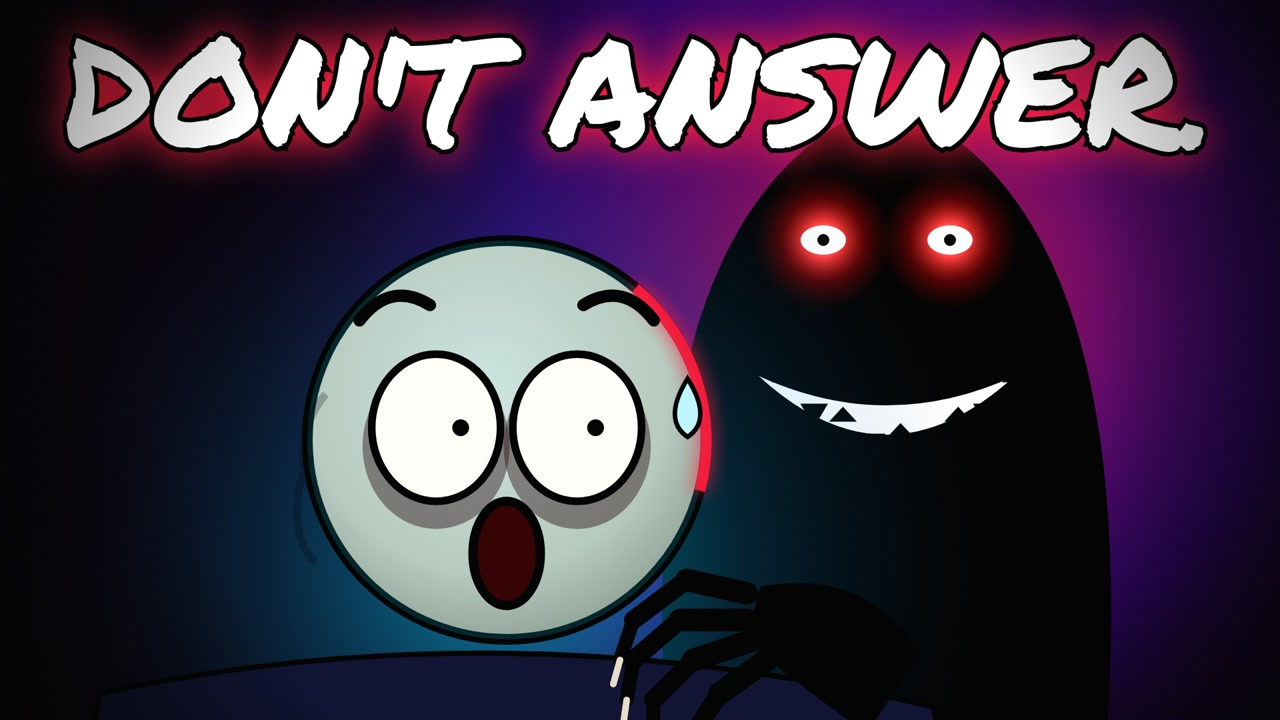
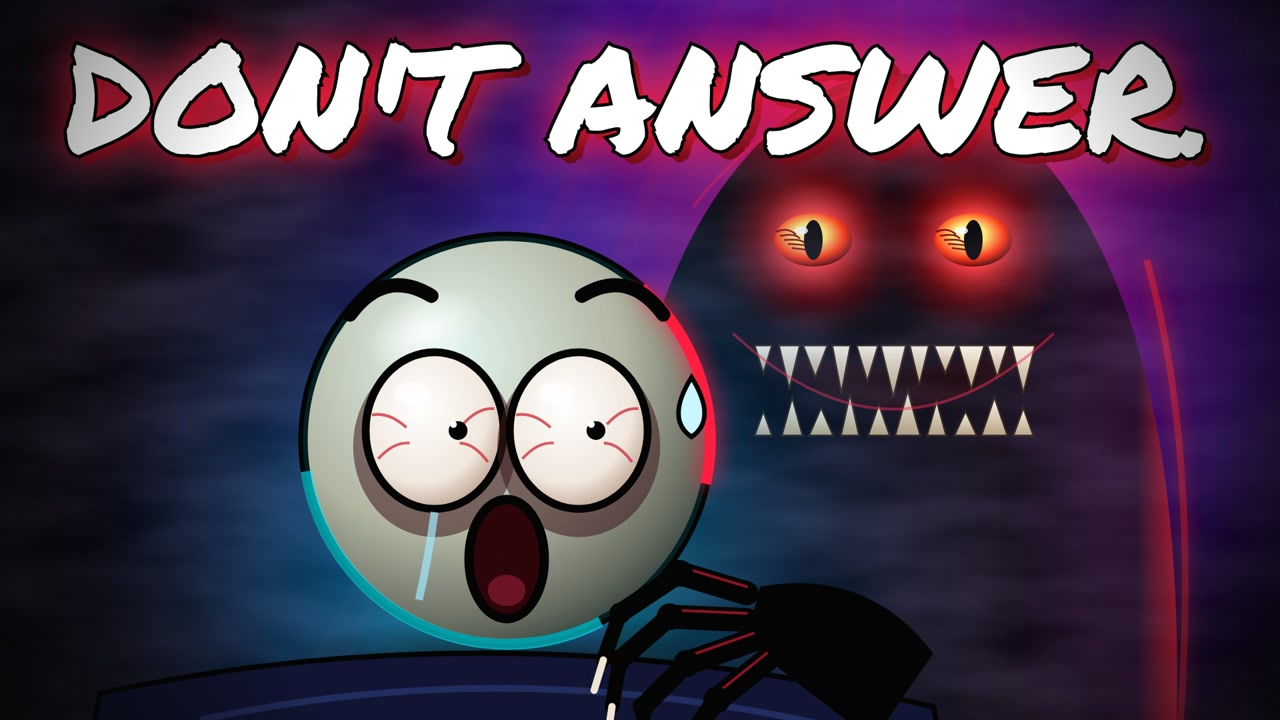
3 AM Stories: 3D-shaded, scarier thumbnails (sphere-lit head, veined eyes, rim-lit creature with teeth, fog, extruded title)
Claude-Session: https://claude.ai/code/session_019ai2m2MxcJnxMHWqzPuaSF

diff --git a/channels/3am-stories/engine/scenes.js b/channels/3am-stories/engine/scenes.js
@@ -237,45 +237,85 @@ S.text = (t, d, p) => {
     ${p.sub ? `<text x="960" y="${1120 + (lines.length - 1) * 95}" text-anchor="middle" font-family="Marker" font-size="${fit(p.sub, 60)}" fill="#c9c2bb" opacity="${a}">${p.sub}</text>` : ''}
     ${p.eyes ? watcher(960, 1500, 0.8, ease((t - 0.8) / 1.2), { noeyes: false }) : ''}`;
 };
-// Thumbnail: saturated colour, your terrified face lit cyan from below, the creature looming right behind you
-// (glowing eyes, too-wide grin, long fingers curling round your head), one or two huge words on top.
+// Thumbnail, "3D" look: sphere-shaded head with specular highlight and cast shadow, glossy veined eyes,
+// a solid rim-lit creature looming close (bloodshot glowing eyes, jagged shaded grin), fog + light rays for depth,
+// extruded lettering. tint/tint2 set the colour of the scene.
 S.thumb = (t, d, p) => {
   const tint = p.tint || '#ff1a3c', tint2 = p.tint2 || '#5a00ff';
-  const grin = `<path d="M-120 40 Q0 150 120 40 Q0 95 -120 40Z" fill="#fff"/>` +
-    [...Array(9)].map((_, k) => `<path d="M${-108 + k * 27} ${46 + Math.sin(k / 8 * Math.PI) * 52} l13 ${k % 2 ? 22 : -14} l13 ${k % 2 ? -22 : 14}" fill="#000"/>`).join('');
+  const txt = p.text || "DON'T LOOK.";
+  const size = fit(txt, p.size || 250, 0.94);
+  // grin: dark mouth, two rows of shaded uneven teeth
+  const teeth = (n, y0, h, dir) => [...Array(n)].map((_, k) => {
+    const x = -150 + k * (300 / (n - 1)), w = 20 + (k * 37 % 11), hh = h * (0.7 + (k * 53 % 7) / 10);
+    return `<path d="M${x - w / 2} ${y0} L${x} ${y0 + dir * hh} L${x + w / 2} ${y0}Z" fill="url(#tooth)" stroke="#2a1a10" stroke-width="2"/>`; }).join('');
+  const mouth = `<path d="M-185 0 Q0 175 185 0 Q0 80 -185 0Z" fill="#160004"/>${teeth(11, 14, 46, 1)}${teeth(10, 118, 40, -1)}
+    <path d="M-185 0 Q0 175 185 0" fill="none" stroke="${tint}" stroke-width="3" opacity=".5"/>`;
+  const eye3d = (cx, cy) => `<g transform="translate(${cx},${cy})">
+      <circle r="150" fill="url(#eyeGlow)"/>
+      <ellipse rx="58" ry="40" fill="url(#bloodEye)"/>
+      ${[0, 1, 2, 3, 4].map((k) => `<path d="M${-56 + k * 6} ${-12 + k * 6} q${18 + k * 4} ${-8 + k * 3} ${30} ${4}" stroke="#7a0010" stroke-width="2.5" fill="none"/>`).join('')}
+      <ellipse rx="14" ry="30" fill="#000"/><ellipse cx="-18" cy="-14" rx="10" ry="6" fill="#fff" opacity=".85"/>
+    </g>`;
+  const rays = [...Array(7)].map((_, k) => `<path d="M${1330 + (k - 3) * 40} 0 L${980 + (k - 3) * 260} 1920 L${1060 + (k - 3) * 260} 1920Z" fill="${tint}" opacity=".05"/>`).join('');
   return `
-    <rect width="1920" height="1920" fill="#06000a"/>
-    <radialGradient id="bgA" cx="70%" cy="45%" r="55%"><stop offset="0" stop-color="${tint}" stop-opacity=".85"/><stop offset=".55" stop-color="${tint2}" stop-opacity=".35"/><stop offset="1" stop-color="#000" stop-opacity="0"/></radialGradient>
-    <rect width="1920" height="1920" fill="url(#bgA)"/>
-    <g transform="translate(1330,930)">
-      <path d="M-330 600 Q-380 -150 -60 -330 Q0 -360 60 -330 Q380 -150 330 600Z" fill="#000"/>
-      <circle cx="-95" cy="-150" r="105" fill="url(#eyeGlow)"/><circle cx="95" cy="-150" r="105" fill="url(#eyeGlow)"/>
-      <ellipse cx="-95" cy="-150" rx="34" ry="22" fill="#fff"/><ellipse cx="95" cy="-150" rx="34" ry="22" fill="#fff"/>
-      <circle cx="-95" cy="-150" r="9" fill="#000"/><circle cx="95" cy="-150" r="9" fill="#000"/>
-      <g transform="translate(0,-10) scale(1.6)">${grin}</g>
+    <defs>
+      <radialGradient id="bgA" cx="70%" cy="42%" r="58%"><stop offset="0" stop-color="${tint}" stop-opacity=".95"/><stop offset=".5" stop-color="${tint2}" stop-opacity=".45"/><stop offset="1" stop-color="#000" stop-opacity="0"/></radialGradient>
+      <radialGradient id="head3d" cx="36%" cy="30%" r="78%"><stop offset="0" stop-color="#fffaf2"/><stop offset=".18" stop-color="#f1e2d0"/><stop offset=".55" stop-color="#c9ae94"/><stop offset=".85" stop-color="#6f5644"/><stop offset="1" stop-color="#2a1d14"/></radialGradient>
+      <radialGradient id="spec" r="50%"><stop offset="0" stop-color="#fff" stop-opacity=".9"/><stop offset="1" stop-color="#fff" stop-opacity="0"/></radialGradient>
+      <radialGradient id="eyeball" cx="40%" cy="35%" r="70%"><stop offset="0" stop-color="#ffffff"/><stop offset=".7" stop-color="#f0e6dc"/><stop offset="1" stop-color="#b89c8a"/></radialGradient>
+      <radialGradient id="bloodEye" cx="45%" cy="40%" r="60%"><stop offset="0" stop-color="#fff2c8"/><stop offset=".35" stop-color="#ffea6a"/><stop offset=".75" stop-color="#ff2a00"/><stop offset="1" stop-color="#5a0000"/></radialGradient>
+      <linearGradient id="beast" x1="0" y1="0" x2="1" y2="0"><stop offset="0" stop-color="#000"/><stop offset=".7" stop-color="#0a0410"/><stop offset=".93" stop-color="#2a0a2e"/><stop offset="1" stop-color="${tint}"/></linearGradient>
+      <linearGradient id="tooth" x1="0" y1="0" x2="0" y2="1"><stop offset="0" stop-color="#fffbe8"/><stop offset="1" stop-color="#b8a27a"/></linearGradient>
+      <linearGradient id="finger" x1="0" y1="0" x2="1" y2="1"><stop offset="0" stop-color="#1a0c1c"/><stop offset="1" stop-color="#000"/></linearGradient>
+      <radialGradient id="cyan3d" r="50%"><stop offset="0" stop-color="#00f6ff" stop-opacity=".65"/><stop offset=".55" stop-color="#0090ff" stop-opacity=".18"/><stop offset="1" stop-color="#001a40" stop-opacity="0"/></radialGradient>
+      <radialGradient id="aoShadow" r="50%"><stop offset="0" stop-color="#000" stop-opacity=".85"/><stop offset="1" stop-color="#000" stop-opacity="0"/></radialGradient>
+      <filter id="fog"><feTurbulence type="fractalNoise" baseFrequency=".004 .012" numOctaves="3" seed="7"/><feColorMatrix values="0 0 0 0 .55  0 0 0 0 .4  0 0 0 0 .8  0 0 0 .55 -.1"/></filter>
+    </defs>
+    <rect width="1920" height="1920" fill="#05000a"/>
+    <rect width="1920" height="1920" fill="url(#bgA)"/>${rays}
+    <g transform="translate(1340,930)">
+      <path d="M-420 700 Q-470 -170 -90 -380 Q0 -420 90 -380 Q470 -170 420 700Z" fill="url(#beast)"/>
+      <path d="M380 -120 Q470 200 420 700" stroke="${tint}" stroke-width="10" fill="none" opacity=".75" style="filter:drop-shadow(0 0 12px ${tint})"/>
+      <path d="M-60 -372 Q-200 -330 -300 -200" stroke="${tint}" stroke-width="5" fill="none" opacity=".35"/>
+      ${eye3d(-120, -150)}${eye3d(120, -150)}
+      <g transform="translate(0,-10) scale(1.3)">${mouth}</g>
     </g>
-    <radialGradient id="cyanGlow" r="50%"><stop offset="0" stop-color="#00f0ff" stop-opacity=".55"/><stop offset=".5" stop-color="#00a8ff" stop-opacity=".18"/><stop offset="1" stop-color="#003a7a" stop-opacity="0"/></radialGradient><circle cx="760" cy="1260" r="720" fill="url(#cyanGlow)"/>
-    <g transform="translate(760,1080) scale(2.3)">
-      <circle r="130" fill="url(#skin)" stroke="#000" stroke-width="7"/>
-      <circle r="130" fill="#00d9ff" opacity=".16"/>
-      <path d="M84 -99 A130 130 0 0 1 126 33" stroke="${tint}" stroke-width="7" fill="none" opacity=".95" style="filter:drop-shadow(0 0 6px ${tint})"/>
-      <path d="M-96 -78 q20 -26 46 -10 M96 -78 q-20 -26 -46 -10" stroke="#000" stroke-width="8" stroke-linecap="round" fill="none"/>
-      ${[-46, 46].map((ex) => `<g transform="translate(${ex},-8)"><ellipse rx="48" ry="54" fill="#2a0d14" opacity=".45" transform="translate(0,12)"/><ellipse rx="42" ry="48" fill="#fffdf8" stroke="#000" stroke-width="5"/><circle cx="${ex < 0 ? 16 : 12}" cy="0" r="5.5" fill="#000"/></g>`).join('')}
-      <ellipse cx="0" cy="74" rx="22" ry="34" fill="#300" stroke="#000" stroke-width="6"/>
-      <path d="M118 -40 c10 16 12 30 0 38 c-12 -8 -10 -22 0 -38z" fill="#bff6ff" stroke="#000" stroke-width="3"/>
-      <path d="M-128 10 c-14 30 -10 60 4 70 M-118 -30 c-18 22 -18 50 -8 64" stroke="#000" stroke-width="5" fill="none" opacity=".25"/>
+    <rect width="1920" height="1920" filter="url(#fog)" opacity=".55"/>
+    <circle cx="760" cy="1260" r="760" fill="url(#cyan3d)"/>
+    <ellipse cx="800" cy="1420" rx="380" ry="80" fill="url(#aoShadow)"/>
+    <g transform="translate(760,1080) scale(2.35)">
+      <circle r="130" fill="url(#head3d)" stroke="#000" stroke-width="6"/>
+      <circle r="130" fill="#00e1ff" opacity=".12"/>
+      <path d="M-128 20 A130 130 0 0 0 60 116" stroke="#00f0ff" stroke-width="7" fill="none" opacity=".6"/>
+      <path d="M86 -97 A130 130 0 0 1 127 28" stroke="${tint}" stroke-width="7" fill="none" style="filter:drop-shadow(0 0 7px ${tint})"/>
+      <ellipse cx="-52" cy="-70" rx="40" ry="24" fill="url(#spec)" transform="rotate(-25 -52 -70)"/>
+      <path d="M-100 -80 q22 -30 52 -12 M100 -80 q-22 -30 -52 -12" stroke="#000" stroke-width="9" stroke-linecap="round" fill="none"/>
+      ${[-46, 46].map((ex) => `<g transform="translate(${ex},-6)">
+          <ellipse rx="52" ry="58" fill="#3a1218" opacity=".55" transform="translate(0,10)"/>
+          <ellipse rx="44" ry="50" fill="url(#eyeball)" stroke="#000" stroke-width="5"/>
+          ${[[-40, -10, -18, -2], [-36, 18, -16, 8], [38, -14, 18, -4], [34, 20, 16, 8]].map(([x0, y0, x1, y1]) => `<path d="M${x0} ${y0} Q${(x0 + x1) / 2} ${(y0 + y1) / 2 - 6} ${x1} ${y1}" stroke="#d0303a" stroke-width="1.8" fill="none" opacity=".8"/>`).join('')}
+          <circle cx="${ex < 0 ? 15 : 11}" cy="0" r="6" fill="#000"/><circle cx="${ex < 0 ? 12 : 8}" cy="-4" r="2.2" fill="#fff"/>
+          <ellipse cx="-14" cy="-24" rx="12" ry="7" fill="#fff" opacity=".7"/>
+        </g>`).join('')}
+      <ellipse cx="0" cy="76" rx="24" ry="38" fill="#2a0006" stroke="#000" stroke-width="6"/><ellipse cx="0" cy="96" rx="12" ry="10" fill="#6a1020"/>
+      <path d="M-46 46 q-4 30 -10 56" stroke="#9fe8ff" stroke-width="5" fill="none" opacity=".7"/>
+      <path d="M118 -40 c10 16 12 30 0 38 c-12 -8 -10 -22 0 -38z" fill="#c8f6ff" stroke="#000" stroke-width="3"/>
     </g>
     <path d="M150 1460 Q760 1330 1400 1480 L1500 1920 L60 1920Z" fill="#0d1030" stroke="#000" stroke-width="8"/>
+    <path d="M300 1500 Q760 1400 1250 1510" stroke="#2a3a7a" stroke-width="10" fill="none" opacity=".6"/>
     <g transform="translate(1180,1360)">
-      <path d="M-40 -60 Q120 -90 200 40 L120 160 Q-20 60 -60 20Z" fill="#000"/>
-      ${[[-60, -50, -150, -70, -230, -10, -250, 50], [-60, -10, -160, -10, -230, 50, -240, 110], [-50, 20, -140, 50, -200, 110, -200, 170], [-30, 50, -100, 100, -140, 160, -130, 215]].map(([x0, y0, x1, y1, x2, y2, x3, y3]) =>
-        `<path d="M${x0} ${y0} L${x1} ${y1}" stroke="#000" stroke-width="34" stroke-linecap="round"/>
-         <path d="M${x1} ${y1} L${x2} ${y2}" stroke="#000" stroke-width="28" stroke-linecap="round"/>
-         <path d="M${x2} ${y2} L${x3} ${y3}" stroke="#000" stroke-width="21" stroke-linecap="round"/>
-         <path d="M${x3} ${y3} l${(x3 - x2) * 0.5} ${(y3 - y2) * 0.6}" stroke="#e8dccb" stroke-width="10" stroke-linecap="round"/>`).join('')}
+      <path d="M-40 -60 Q120 -90 220 40 L130 170 Q-20 60 -60 20Z" fill="#000"/>
+      ${[[-60, -50, -160, -80, -250, -20, -275, 50], [-60, -10, -175, -15, -250, 50, -262, 120], [-50, 20, -150, 55, -215, 120, -215, 190], [-30, 50, -105, 110, -150, 175, -138, 235]].map(([x0, y0, x1, y1, x2, y2, x3, y3]) =>
+        `<path d="M${x0} ${y0} L${x1} ${y1}" stroke="#000" stroke-width="36" stroke-linecap="round"/>
+         <path d="M${x1} ${y1} L${x2} ${y2}" stroke="#000" stroke-width="29" stroke-linecap="round"/>
+         <path d="M${x2} ${y2} L${x3} ${y3}" stroke="#000" stroke-width="22" stroke-linecap="round"/>
+         <path d="M${x0} ${y0 - 10} L${x1} ${y1 - 10}" stroke="${tint}" stroke-width="4" opacity=".55" stroke-linecap="round"/>
+         <circle cx="${x1}" cy="${y1}" r="20" fill="#000"/><circle cx="${x2}" cy="${y2}" r="16" fill="#000"/>
+         <path d="M${x3} ${y3} l${(x3 - x2) * 0.55} ${(y3 - y2) * 0.65}" stroke="#efe4d2" stroke-width="11" stroke-linecap="round"/>`).join('')}
     </g>
     <rect width="1920" height="1920" fill="url(#vig)"/>
-    <text x="960" y="${p.textY || 640}" text-anchor="middle" font-family="Marker" font-size="${fit(p.text || "DON'T LOOK.", p.size || 240, 0.94)}" fill="#fff" stroke="#000" stroke-width="14" paint-order="stroke" style="filter:drop-shadow(0 0 30px ${tint})">${p.text || "DON'T LOOK."}</text>`;
+    ${[14, 11, 8, 5, 2].map((o) => `<text x="${960 + o}" y="${(p.textY || 650) + o}" text-anchor="middle" font-family="Marker" font-size="${size}" fill="${o > 3 ? '#3a0008' : '#7a0014'}">${txt}</text>`).join('')}
+    <text x="960" y="${p.textY || 650}" text-anchor="middle" font-family="Marker" font-size="${size}" fill="#fff" stroke="#000" stroke-width="10" paint-order="stroke" style="filter:drop-shadow(0 0 34px ${tint})">${txt}</text>`;
 };
 
 // wrap: camera drift, vignette, film grain (seed changes per frame so the grain moves)
